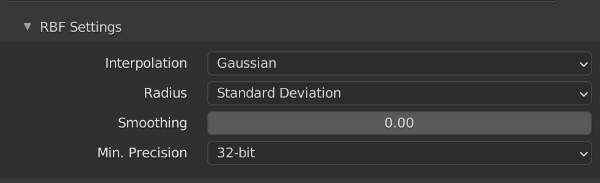
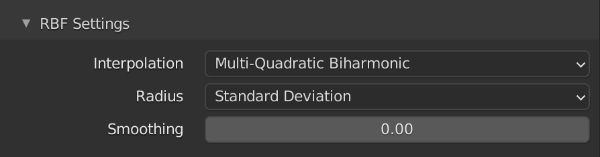
remove precision option

diff --git a/docs/user-guide/rbf-settings.md b/docs/user-guide/rbf-settings.md
@@ -93,27 +93,3 @@ with its effect.
     Each time you update the smoothing value the RBF network data needs to be recalculated and
     the drivers recreated. This is not a small task, and depending on your system, with complex
     drivers you may notice a slight lag in the interface when sliding the smoothing value.
-
-___________________________________________________________________________________________________
-
-## Min. Precision
-
-<p style="text-align:center"><img src="../../img/rbfsettings_prec.jpg" alt="Minimum precision setting"/></p>
-
-!!! Note
-    This setting will only take effect for relatively complex driver setups.
-
-RBF Drivers builds on Blender's native drivers, making extensive use of its
-<a href="https://docs.blender.org/manual/en/latest/animation/drivers/drivers_panel.html#simple-expressions" target="_blank">
-simple expressions</a>. In order to maximize performance it will squeeze as much raw data into the
-driver's expression as it can without exceeding Blender's internal expression length limit
-(256 characters). If it can't fit it all in, it will fall back to storing the data in custom
-properties and then pulling it in through driver variables, but before doing so it will (depending on
-this setting) reduce the floating-point precision of the data and retry building the drivers at the
-lower precision.
-
-It's very unlikely that your needs are so exacting that 64-bit precision is a strict requirement,
-but if it is, you can set that here and maintain the maximum precision possible. On the other hand
-it is quite possible that 16-bit precision will suffice, so if you have a fairly complex driver you
-might want to experiment with a 16-bit setting. In any case it's entirely non-destructive so feel
-free to experiment.
